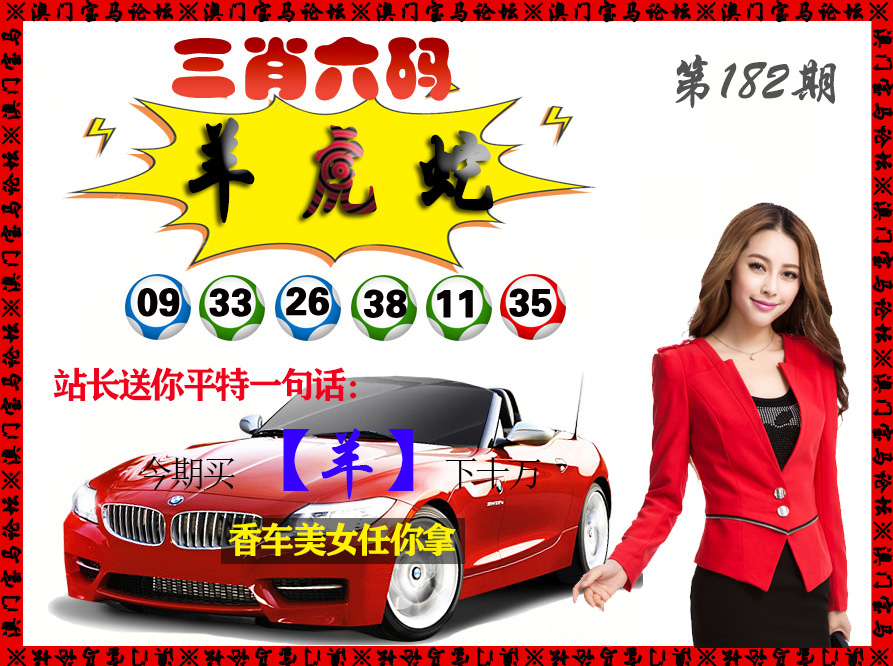
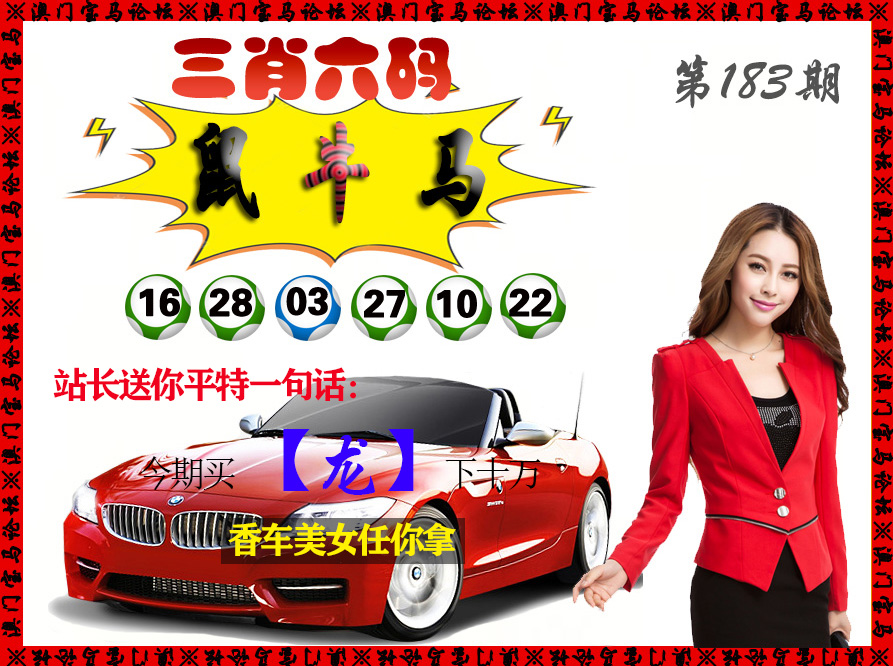
Update:  2023.07.02 02:26:02

diff --git a/Script/Src/xjw/管家婆解析.js b/Script/Src/xjw/管家婆解析.js
@@ -25,8 +25,8 @@ document.writeln("	");
 document.writeln("		<p align=\'left\'>");
 document.writeln("	");
 document.writeln("		<span><font size=\'4\'>183期:<font color=\'#008000\'>【精解管家婆一句话】</font><font color=\'#FF0000\'>开？00</font><font color=\'#008000\'><br>");
-document.writeln("		</font><font color=\'#6600CC\'>【更新中】【更新中】<br></font></font>");
-document.writeln("		<font color=\'#0000FF\' size=\'4\'>解：更新中。综合取肖</font><font color=\'#FF0000\' size=\'4\'>更新中</font><font color=\'#0000FF\' size=\'4\'>   本期平特更新中。<br>本期取码：更新中</td></tr>");
+document.writeln("		</font><font color=\'#6600CC\'>【蓝绿二色开特码】【放虎归山】<br></font></font>");
+document.writeln("		<font color=\'#0000FF\' size=\'4\'>解：蓝绿二色开特码，日肖:兔龙蛇马羊猴。综合取肖</font><font color=\'#FF0000\' size=\'4\'>兔龙蛇马羊猴</font><font color=\'#0000FF\' size=\'4\'>   本期平特虎。<br>本期取码：25.37.24.36.11.23.34.46.33.45.08.32</td></tr>");
 document.writeln("		");
 
 document.writeln("	<tr>");

diff --git a/Script/Src/xjw/传真九肖.js b/Script/Src/xjw/传真九肖.js
@@ -25,9 +25,9 @@ document.writeln("	");
 document.writeln("		<p align=\'left\'>");
 document.writeln("	");
 document.writeln("		<span><font size=\'4\'>183期:<font color=\'#008000\'>【澳门传真特围生肖】</font><font color=\'#FF0000\'>开？00</font><font color=\'#008000\'><br>");
-document.writeln("		</font><font color=\'#0000FF\'>更新中。<br>");
-document.writeln("		【更新中】</font><br><b><font color=\'#FF0000\'>");
-document.writeln("				特围生肖:更新中<br>主特六肖：更新中</font></b></font></td></tr>");
+document.writeln("		</font><font color=\'#0000FF\'>今期生肖带红花，天上嫦娥赏桂花。道人本期点灵码，二三合成五六码。七出三一有财现，八戒好色成正果。鱼跃龙门争上游，木兰沙场除叛贼。<br>");
+document.writeln("		【豪言空话】</font><br><b><font color=\'#FF0000\'>");
+document.writeln("				特围生肖:兔猪羊龙虎马鼠蛇<br>主特六肖：兔猪羊龙虎马</font></b></font></td></tr>");
 document.writeln("");
 
 document.writeln("	<tr>");
